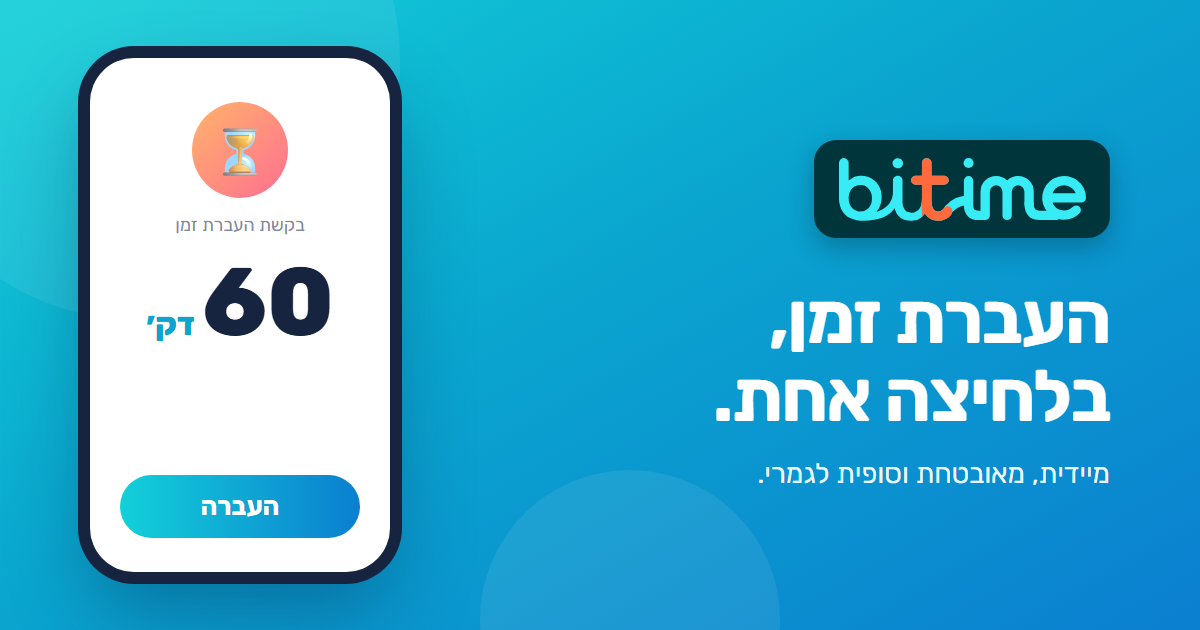
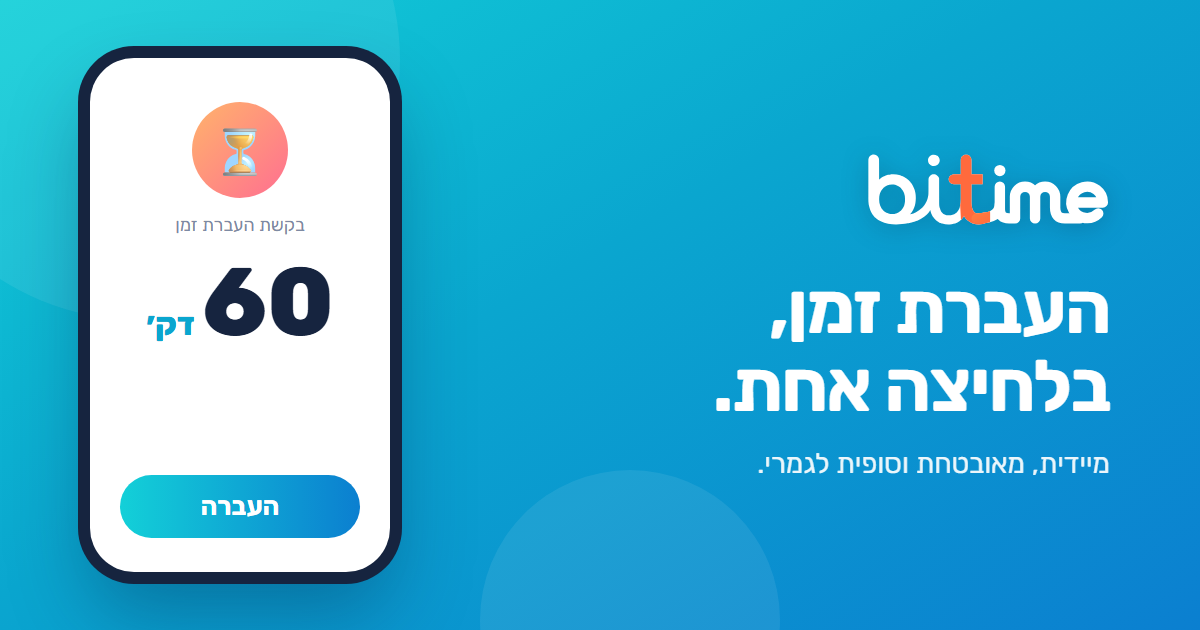
biTime

Changed region(s): [[0.5858, 0.4524, 0.925, 0.6937], [0.6783, 0.2111, 0.925, 0.3921], [0.6167, 0.7238, 0.925, 0.7841]]

diff --git a/index.html b/index.html
@@ -39,7 +39,7 @@ button{font:inherit;cursor:pointer}
   .hero{display:block;max-width:440px}
 }
 .hero .mark{margin-bottom:22px}
-.hero .logo{padding:10px 16px;border-radius:16px}
+.hero .logo{}
 .hero h1{font-size:42px;line-height:1.1;margin:0 0 12px;letter-spacing:-1px}
 .hero h1 span{background:var(--grad);-webkit-background-clip:text;background-clip:text;color:transparent}
 .hero p.lead{font-size:16.5px;color:#4a5876;line-height:1.6;margin:0 0 20px}
@@ -64,8 +64,8 @@ button{font:inherit;cursor:pointer}
 }
 .hdr{color:#fff;padding:18px 20px 96px;display:flex;align-items:center;justify-content:space-between}
 .mark{display:flex;align-items:center}
-.logo{direction:ltr;unicode-bidi:isolate;display:inline-block;font-family:Fredoka,Rubik,system-ui,sans-serif;font-weight:700;font-size:21px;line-height:1;letter-spacing:-.3px;color:var(--g3);background:#00353b;border-radius:12px;padding:6px 11px;box-shadow:0 4px 12px rgba(0,40,90,.12)}
-.logo img{display:block;height:24px;width:auto}
+.logo{direction:ltr;display:inline-block;line-height:0}
+.logo img{display:block;height:27px;width:auto}
 .hero .logo img{height:42px}
 .logo b{font-weight:700;letter-spacing:0;color:#ff7a7a;background:linear-gradient(160deg,#ffb36b,#ff5f8f);-webkit-background-clip:text;background-clip:text;-webkit-text-fill-color:transparent}
 .clock{display:flex;align-items:center;gap:6px;background:rgba(255,255,255,.18);border-radius:999px;padding:6px 12px;font-size:13px;font-variant-numeric:tabular-nums}
@@ -247,7 +247,7 @@ button{font:inherit;cursor:pointer}
 
   <!-- desktop landing column -->
   <section class="hero">
-    <div class="mark"><span class="logo"><img src="logo.svg" alt="biTime"></span></div>
+    <div class="mark"><span class="logo"><img src="logo-d.svg" alt="biTime"></span></div>
     <h1>העברת זמן,<br><span>בלחיצה אחת.</span></h1>
     <p class="lead">יש לך זמן פנוי? יש מי שאין לו. עם biTime מעבירים דקות, שעות ואפילו ימים שלמים, לכל אחד ובלי פרטי בנק.</p>
     <div class="feats">
@@ -270,7 +270,7 @@ button{font:inherit;cursor:pointer}
   <!-- the app -->
   <div class="app">
     <div class="hdr">
-      <div class="mark"><span class="logo"><img src="logo.svg" alt="biTime"></span></div>
+      <div class="mark"><span class="logo"><img src="logo-w.svg" alt="biTime"></span></div>
       <div class="hbtns">
         <button class="pill" id="askBtn">＋ בקשת זמן</button>
         <div class="clock" title="זמן בדף">⏱ <b id="live">00:00</b></div>
